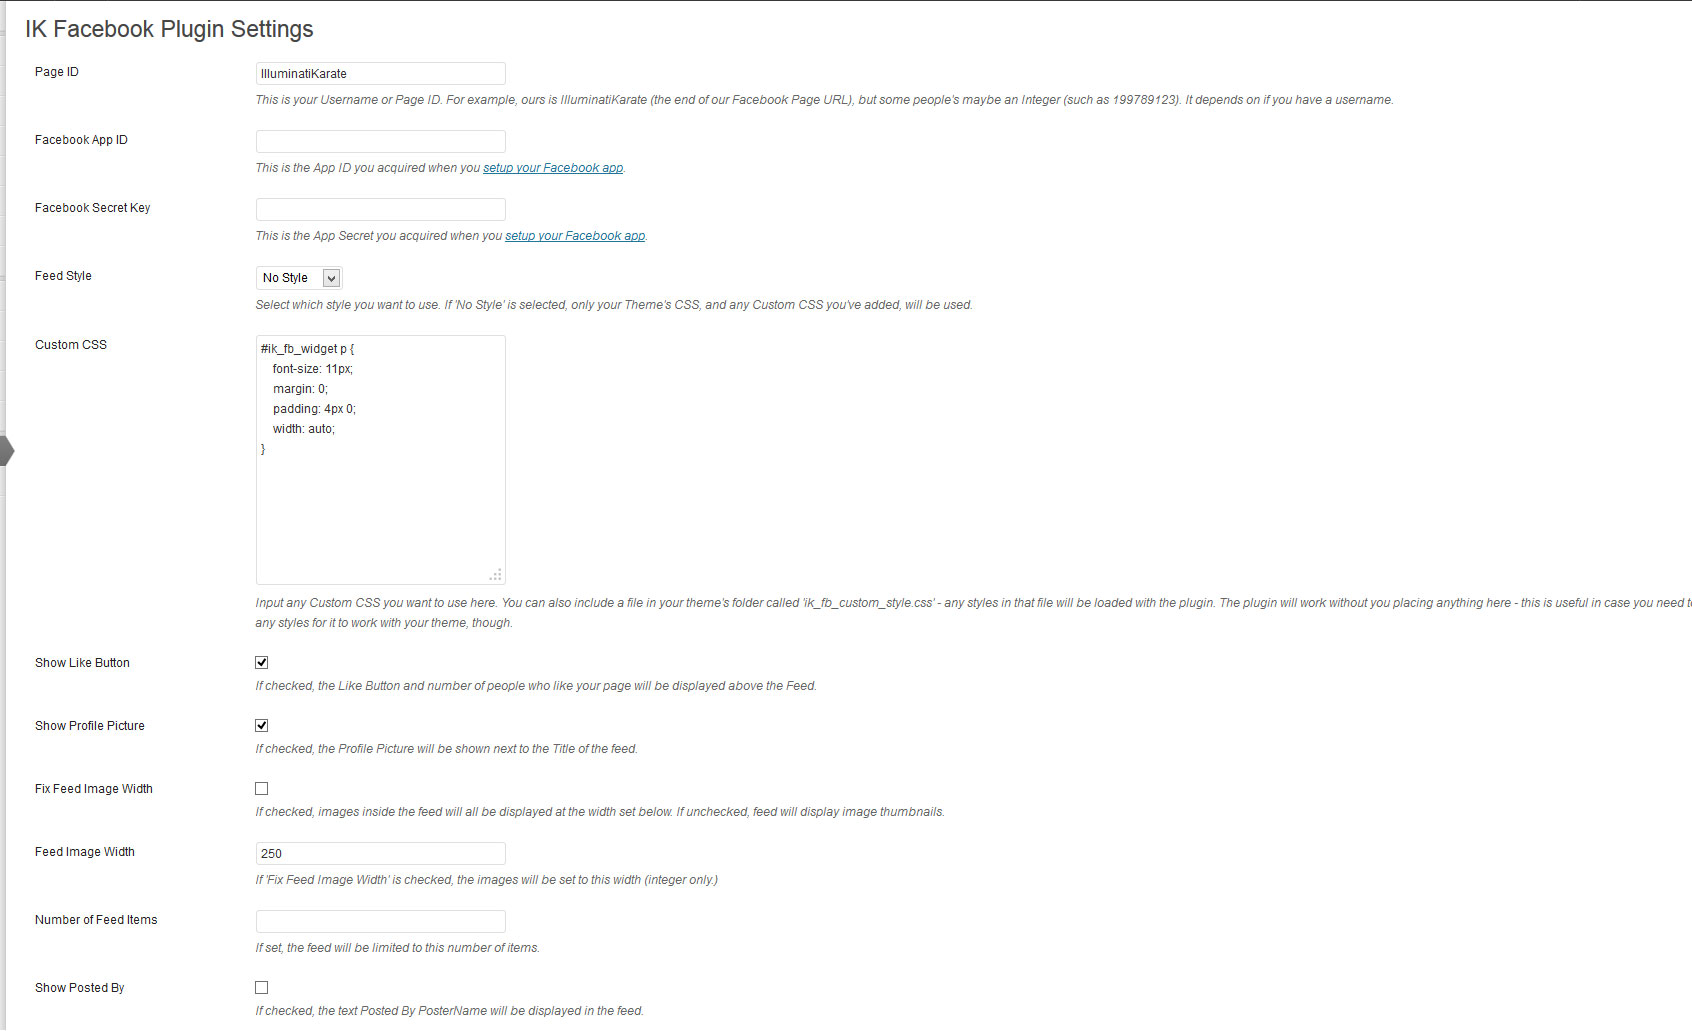
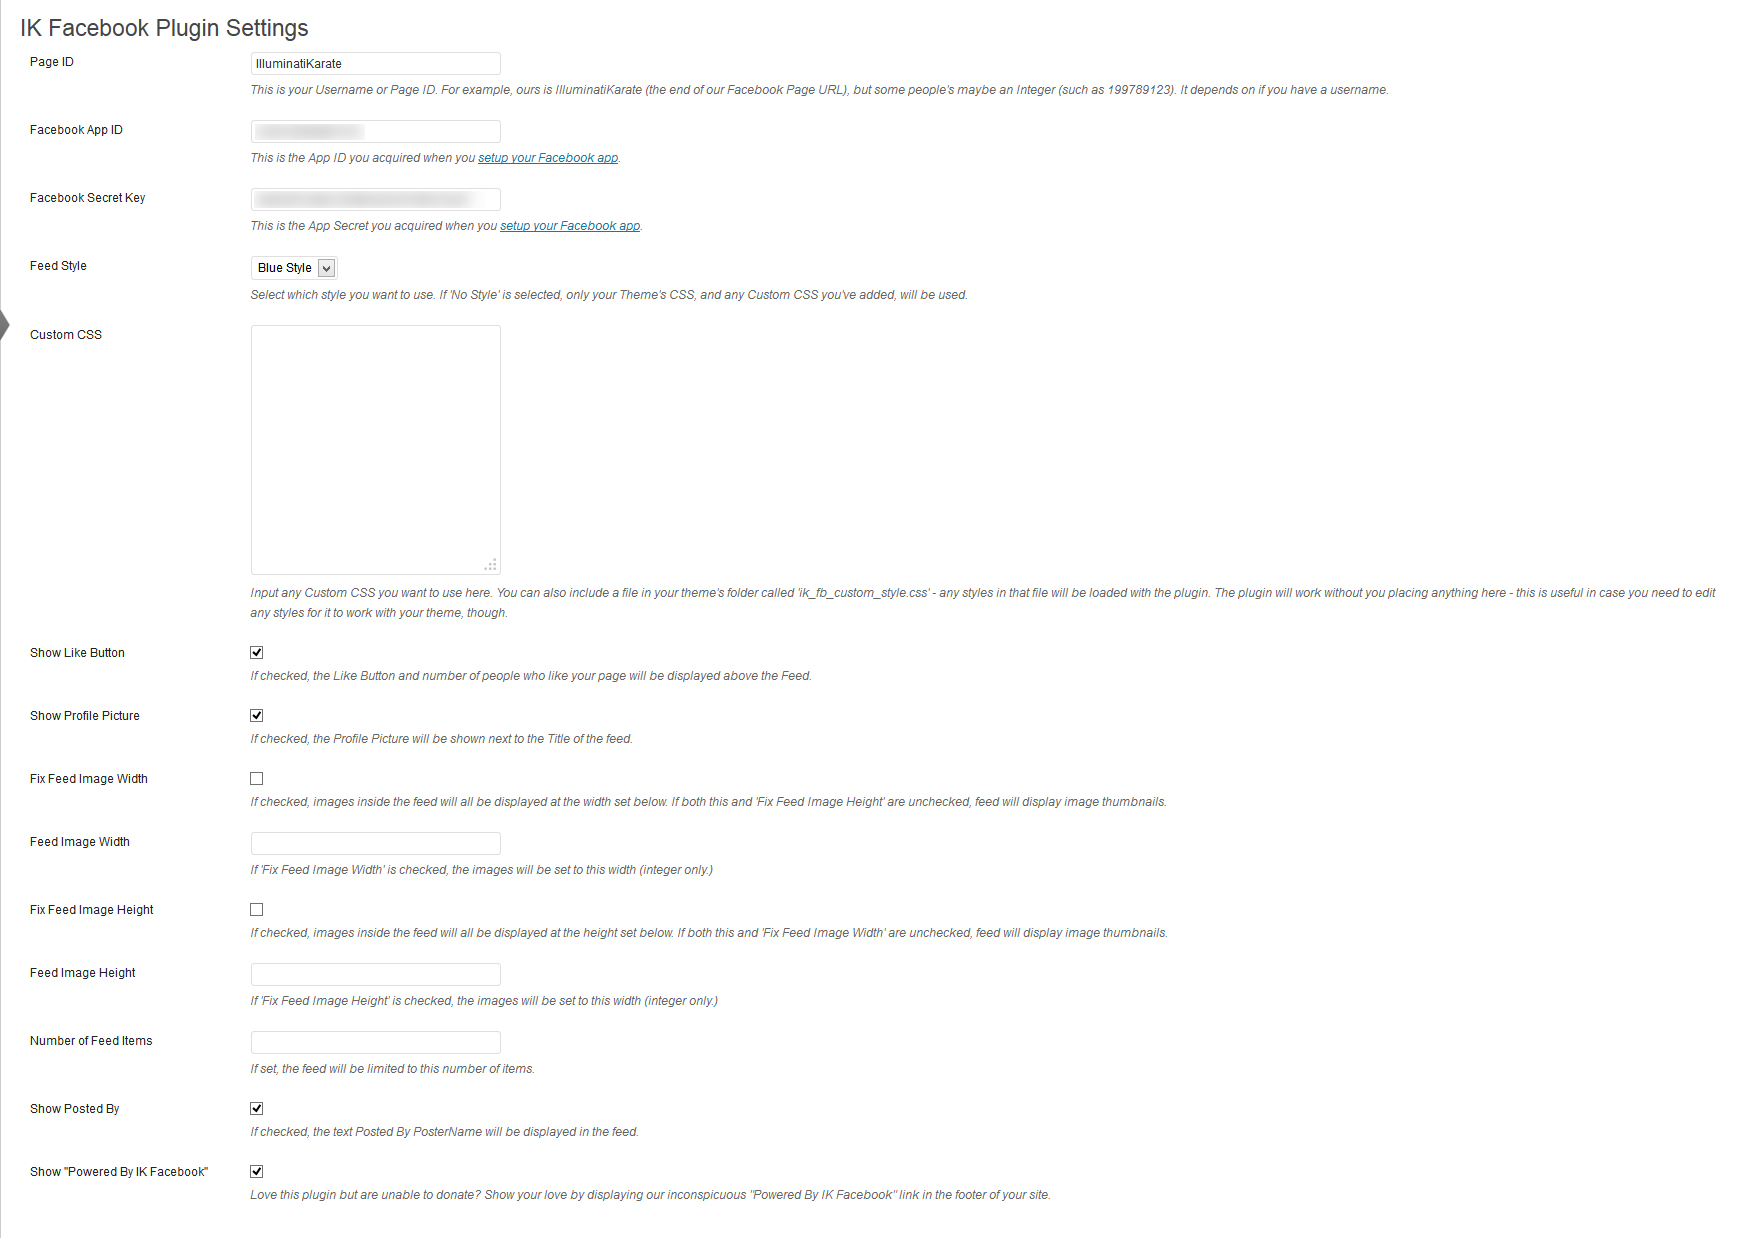
Adds request caching using the WP Transient API.  Updates language on the settings screen and updates the screenshot.
git-svn-id: https://plugins.svn.wordpress.org/ik-facebook/trunk@732963 b8457f37-d9ea-0310-8a92-e5e31aec5664

diff --git a/include/CachedCurl.php b/include/CachedCurl.php
@@ -1,0 +1,70 @@
+<?php
+/*
+This file is part of The IK Facebook Plugin .
+
+The IK Facebook Plugin  is free software: you can redistribute it and/or modify
+it under the terms of the GNU General Public License as published by
+the Free Software Foundation, either version 3 of the License, or
+(at your option) any later version.
+
+The IK Facebook Plugin  is distributed in the hope that it will be useful,
+but WITHOUT ANY WARRANTY; without even the implied warranty of
+MERCHANTABILITY or FITNESS FOR A PARTICULAR PURPOSE.  See the
+GNU General Public License for more details.
+
+You should have received a copy of the GNU General Public License
+along with The IK Facebook Plugin.  If not, see <http://www.gnu.org/licenses/>.
+*/
+
+	class CachedCurl
+	{
+		var $cache_dir;
+		var $cache_time = 900; // 900 seconds [15 minutes]
+		var $delete_expired_files = false;
+		
+		function __construct($cache_time = 900)
+		{					
+			$this->cache_time = $cache_time;
+		}
+				
+		function load_url($url, $post_fields = false, $headers = false, $cacheResult = true)
+		{
+			$cache_key = strlen($url) . md5($url);
+			
+			// check for a cached result (if $cacheReult is true)
+			if ($cacheResult && $result = get_transient($cache_key)) {
+				return $result;
+			}
+
+			// load file with cURL
+			$ch = curl_init(); 
+			curl_setopt($ch, CURLOPT_URL,            $url );
+			curl_setopt($ch, CURLOPT_CONNECTTIMEOUT, 10); 
+			curl_setopt($ch, CURLOPT_TIMEOUT,        10); 
+			curl_setopt($ch, CURLOPT_RETURNTRANSFER, true );
+			curl_setopt($ch, CURLOPT_SSL_VERIFYPEER, false);  
+			curl_setopt($ch, CURLOPT_SSL_VERIFYHOST, false); 
+
+			if ($post_fields) {
+				curl_setopt($ch, CURLOPT_POST,           true ); 
+				curl_setopt($ch, CURLOPT_POSTFIELDS,    $post_fields);
+			}
+			
+			if ($headers) {
+				if (!is_array($headers)) {
+					$headers = array($headers); // has to be wrapped in an array for curl
+					curl_setopt($ch, CURLOPT_HTTPHEADER, $headers);
+				}
+			}
+			
+			$result = curl_exec($ch);
+			curl_close($ch);
+			
+			// store to cache (if asked)
+			if ($cacheResult && $result) {
+				set_transient($cache_key, $result, $this->cache_time);
+			}
+			return $result;
+		}
+	}
+?>

diff --git a/ik_facebook_options.php b/ik_facebook_options.php
@@ -240,7 +240,7 @@ class ikFacebookOptions
 							
 						<p>More to come! IK Social Pro plugin owners get new updates automatically by email. New features land in the Pro version first, so be sure to upgrade today.</p>
 
-						<p><strong>Don't forget:</strong> <span style="color:seagreen">Pay-What-You-Want-Pricing</span> means you can choose what this plugin is worth to you. Even if you enter $0, you'll still get the plugin (though we really hope its worth more than that to you! The most common donation is $10.)</p>
+						<p><strong>Don't forget:</strong> <span style="color:seagreen">Pay-What-You-Want-Pricing</span> means you can choose what this plugin is worth to you. Even if you enter $5, you'll still get the plugin (though we really hope its worth more than that to you! The most common donation is $10.)</p>
 					</div>
 					<div style="margin: 20px auto; text-align: center; text-decoration: none;">					
 						<a href="https://illuminatikarate.com/ik-social-pro/" target="_blank" title="Learn More About IK Social Pro"><img src="<?php echo plugins_url('ik_social_pro.jpg', __FILE__); ?>" alt="IK Social Pro" /><p class="description">Click Here To Learn About IK Social Pro</p></a>

diff --git a/ik_facebook.php b/ik_facebook.php
@@ -4,7 +4,7 @@ Plugin Name: IK Facebook Plugin
 Plugin URI: http://illuminatikarate.com/ik-facebook-plugin
 Description: IK Facebook Plugin - A Facebook Solution for WordPress
 Author: Illuminati Karate, Inc.
-Version: 1.7.1
+Version: 1.8
 Author URI: http://illuminatikarate.com
 
 This file is part of the IK Facebook Plugin.
@@ -24,6 +24,7 @@ along with the IK Facebook Plugin .  If not, see <http://www.gnu.org/licenses/>.
 */
 include('ik_facebook_feed_widget.php');
 include('ik_facebook_options.php');
+include('include/CachedCurl.php');
 $ik_fb_options = new ikFacebookOptions();
 
 //use this to track if css/powered by have been output
@@ -441,14 +442,11 @@ class ikFacebook
 	}
 	
 	//fetches an URL
-	//TBD: replace this with a version that supports caching
-	function fetchUrl($url,$decode=false){
-		$ch = curl_init();
-		curl_setopt($ch, CURLOPT_TIMEOUT, 10);
-		curl_setopt($ch, CURLOPT_URL, $url);
-		curl_setopt($ch, CURLOPT_RETURNTRANSFER, 1);
-		$retData = curl_exec($ch);
-		curl_close($ch);
+	function fetchUrl($url,$decode=false){		
+		//caching
+		$ch = new CachedCurl();
+
+		$retData = $ch->load_url($url);
 		
 		if($decode){
 			$retData = json_decode($retData);
